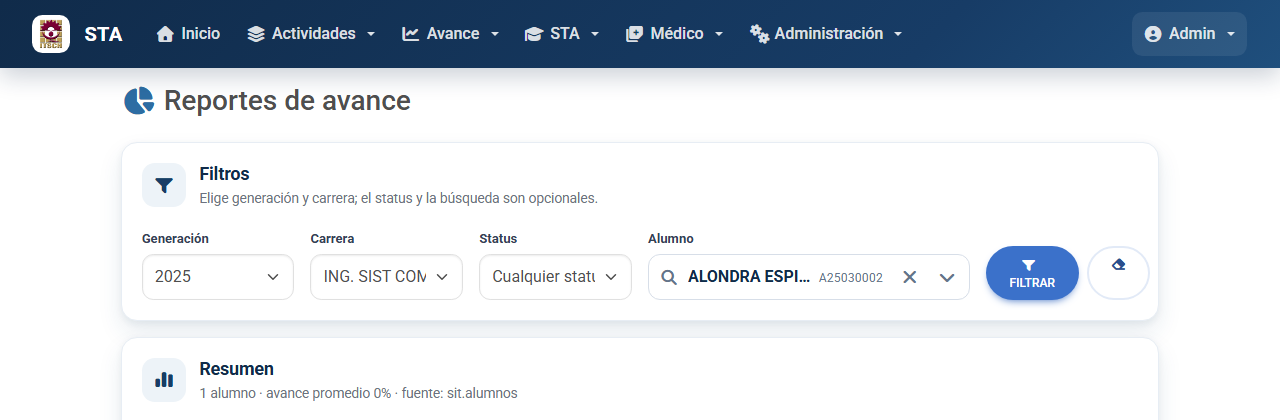
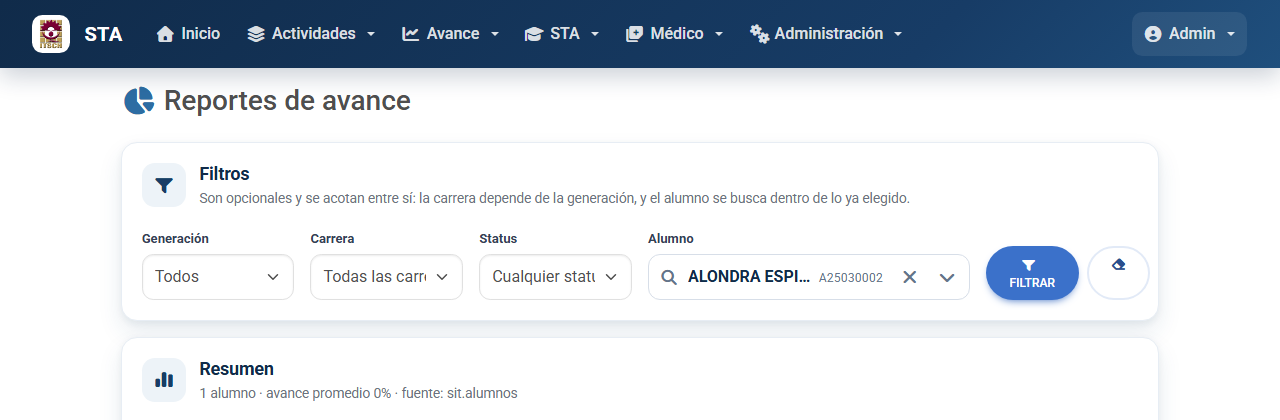
Filtros de reportes en cascada y opcionales
- Quita el required de generación y carrera: se puede filtrar solo por alumno.
- Cascada al enviar: las carreras se acotan por la generación elegida y los
  años por la carrera elegida.
- Sincroniza en vivo el buscador con generación y carrera (parámetro anio).
- Sin filtros no se consulta la base; el status queda como modificador.
- Mantiene el alcance por carreras para usuarios sin privilegios.
- Actualiza la bitácora y regenera las capturas con datos reales.

Changed region(s): [[0.1562, 0.4643, 0.7188, 0.4952], [0.25, 0.619, 0.3438, 0.681], [0.125, 0.619, 0.1562, 0.681]]

diff --git a/resources/views/admin/verifica_evidencia/reportes.blade.php b/resources/views/admin/verifica_evidencia/reportes.blade.php
@@ -69,7 +69,7 @@
 @php
     $paginado = $suma_creditos instanceof \Illuminate\Pagination\LengthAwarePaginator ? $suma_creditos : null;
     $sinDatos = $paginado === null || $paginado->total() === 0;
-    $filtrado = request()->has('generacion') && request()->filled('carrera');
+    $filtrado = (bool) ($filtrosAplicados ?? false);
     $puntosTotales = max(1, (int) $creditos * 100);
     $detallePorAlumno = $reportes_data ? collect($reportes_data)->groupBy('no_control') : collect();
     $r = $resumen ?? ['total' => 0, 'liberados' => 0, 'enProceso' => 0, 'sinAvance' => 0, 'bajas' => 0, 'promedio' => 0];
@@ -86,26 +86,24 @@
         <span class="report-icon"><i class="fa-solid fa-filter" aria-hidden="true"></i></span>
         <div>
             <h2>Filtros</h2>
-            <p>Elige generación y carrera; el status y la búsqueda son opcionales.</p>
+            <p>Son opcionales y se acotan entre sí: la carrera depende de la generación, y el alumno se busca dentro de lo ya elegido.</p>
         </div>
     </div>
     <form action="{{ route('verifica_evidencia.reportes') }}" method="get" class="report-filters">
         <div class="row g-3 align-items-end">
             <div class="col-sm-6 col-xl-2">
                 <label class="form-label" for="generacion">Generación</label>
-                <select name="generacion" id="generacion" class="form-select" required>
-                    <option value="1" @if((int) $generacion === 1) selected @endif>Todos</option>
-                    @for($anio = 2013; $anio <= now()->year; $anio++)
-                        <option value="{{ $anio }}" @if((int) $generacion === $anio) selected @endif>{{ $anio }}</option>
-                    @endfor
+                <select name="generacion" id="generacion" class="form-select">
+                    <option value="1" @if((int) $generacion === 1 || (int) $generacion === 0) selected @endif>Todos</option>
+                    @foreach($anios as $anioDisponible)
+                        <option value="{{ $anioDisponible }}" @if((int) $generacion === (int) $anioDisponible) selected @endif>{{ $anioDisponible }}</option>
+                    @endforeach
                 </select>
             </div>
             <div class="col-sm-6 col-xl-2">
                 <label class="form-label" for="carrera">Carrera</label>
-                <select class="form-select" required name="carrera" id="carrera">
-                    @if (Auth::User()->hasAnyPermission(['VIP','VIP_REPORTES','VIP_SOLO_LECTURA']))
-                        <option value="">Seleccione una carrera</option>
-                    @endif
+                <select class="form-select" name="carrera" id="carrera">
+                    <option value="">Todas las carreras</option>
                     @foreach($carreras as $carrera)
                         <option value="{{ $carrera->id }}" title="{{ $carrera->nombre }}" @selected($carrera_seleccionada == $carrera->id)>{{ $carrera->nombre_corto ?: $carrera->nombre }}</option>
                     @endforeach
@@ -132,7 +130,7 @@
                         'field' => 'busqueda',
                         'endpoint' => route('verifica_evidencia.alumnos_busqueda'),
                         'query_param' => 'nombre',
-                        'params' => ['peticion' => '0', 'carrera' => (string) ($carrera_seleccionada ?? '')],
+                        'params' => ['peticion' => '0', 'carrera' => (string) ($carrera_seleccionada ?? ''), 'anio' => (int) $generacion > 1 ? (string) (int) $generacion : ''],
                         'keys' => ['value' => 'no_control', 'label' => 'nombre', 'meta' => ''],
                         'initial' => $alumnoFiltro ?? null,
                     ],
@@ -151,10 +149,17 @@
 <script>
     (function () {
         const carrera = document.getElementById('carrera');
+        const generacion = document.getElementById('generacion');
         const combo = document.getElementById('alumnoFiltro_combo');
-        if (!carrera || !combo || typeof combo.cbxSetParams !== 'function') { return; }
-        const sync = function () { combo.cbxSetParams({ carrera: carrera.value || '' }); };
+        if (!carrera || !generacion || !combo || typeof combo.cbxSetParams !== 'function') { return; }
+
+        const sync = function () {
+            const anio = generacion.value && generacion.value !== '1' ? generacion.value : '';
+            combo.cbxSetParams({ carrera: carrera.value || '', anio: anio });
+        };
+
         carrera.addEventListener('change', sync);
+        generacion.addEventListener('change', sync);
         sync();
     })();
 </script>
@@ -165,10 +170,10 @@
             <i class="fa-solid {{ $filtrado ? 'fa-circle-question' : 'fa-chart-simple' }}" aria-hidden="true"></i>
             @if($filtrado)
                 <h2>Sin resultados</h2>
-                <p>Ningún alumno coincide con los criterios elegidos en generación, carrera, status o búsqueda. Ajusta los filtros e inténtalo de nuevo.</p>
+                <p>Ningún alumno coincide con la combinación elegida. Recuerda que la carrera se acota por la generación y la búsqueda de alumno por ambos filtros; ajusta la selección e inténtalo de nuevo.</p>
             @else
-                <h2>Selecciona los filtros para generar el reporte</h2>
-                <p>El avance se calcula por crédito: {{ $creditos }} créditos registrados, {{ $puntosTotales }} puntos posibles por alumno.</p>
+                <h2>Elige al menos un filtro</h2>
+                <p>Puedes filtrar por generación, por carrera o buscar directamente un alumno; no es necesario llenar todos. El avance se calcula por crédito: {{ $creditos }} créditos registrados, {{ $puntosTotales }} puntos posibles por alumno.</p>
             @endif
         </div>
     </article>

diff --git a/app/Http/Controllers/VerificaEvidenciaController.php b/app/Http/Controllers/VerificaEvidenciaController.php
@@ -308,12 +308,14 @@ class VerificaEvidenciaController extends Controller
         $puntosTotales = max(1, $creditos * 100);
 
         $busqueda = $request->get('busqueda');
+        $textoBusqueda = is_string($busqueda) ? trim($busqueda) : '';
         $carreraSit = $request->get('carrera');
-        $generacion = $request->get('generacion');
+        $generacion = (int) $request->get('generacion', 0);
+        $anio = $generacion > 1 ? $generacion : null;
         $estadoFiltro = $request->get('status', 'todos');
 
         $puedeVerTodas = Auth::User()->hasAnyPermission(['VIP', 'VIP_REPORTES', 'VIP_SOLO_LECTURA']);
-        $carreras = $puedeVerTodas
+        $carrerasPermitidas = $puedeVerTodas
             ? $this->carrerasSitVisibles()
             : $this->carrerasSitVisibles(Area::CarrerasUsuario(Auth::User()->id)->pluck('id'));
 
@@ -322,11 +324,42 @@ class VerificaEvidenciaController extends Controller
         $resumen = null;
 
         $carreraValida = $carreraSit !== null && $carreraSit !== ''
-            && $carreras->contains(fn ($carrera) => (string) $carrera->id === (string) $carreraSit);
+            && $carrerasPermitidas->contains(fn ($carrera) => (string) $carrera->id === (string) $carreraSit);
 
-        if ($request->has('generacion') && $carreraValida) {
+        // Filtros en cascada: la carrera se acota por la generación elegida
+        $carreras = $carrerasPermitidas;
+        if ($anio !== null) {
+            $carrerasConAlumnos = SitAlumno::where('anio_ingreso', $anio)->pluck('carrera_id')->unique();
+            $carreras = $carrerasPermitidas
+                ->filter(fn ($carrera) => $carrerasConAlumnos->contains($carrera->id) || (string) $carrera->id === (string) $carreraSit)
+                ->values();
+        }
+
+        // Y los años disponibles se acotan por la carrera elegida
+        $consultaAnios = SitAlumno::query()->select('anio_ingreso')->distinct();
+        if ($carreraValida) {
+            $consultaAnios->where('carrera_id', $carreraSit);
+        }
+        $anios = $consultaAnios->orderByDesc('anio_ingreso')
+            ->pluck('anio_ingreso')
+            ->map(fn ($valor) => (int) $valor)
+            ->filter()
+            ->values();
+
+        if ($anio !== null && ! $anios->contains($anio)) {
+            $anios = $anios->push($anio)->sortDesc()->values();
+        }
+
+        $filtrosAplicados = $carreraValida || $anio !== null || $textoBusqueda !== '';
+
+        if ($filtrosAplicados) {
             // Los alumnos salen exclusivamente de sit.alumnos
-            $alumnos = $this->alumnosReporte($carreraSit, $generacion, $busqueda);
+            $alumnos = $this->alumnosReporte(
+                $carreraValida ? $carreraSit : null,
+                $anio,
+                $textoBusqueda,
+                $puedeVerTodas ? null : $carrerasPermitidas->pluck('id')
+            );
 
             $avance = $alumnos->isEmpty() ? collect() : DB::table('avance')
                 ->whereIn('no_control', $alumnos->pluck('no_control')->all())
@@ -427,22 +460,32 @@ class VerificaEvidenciaController extends Controller
         ->with('suma_creditos', $suma_creditos)
         ->with('resumen', $resumen)
         ->with('carreras', $carreras)
+        ->with('anios', $anios)
+        ->with('filtrosAplicados', $filtrosAplicados)
         ->with('carrera_seleccionada', $carreraSit)
         ->with('busqueda', $busqueda)
         ->with('status', $request->get('status'))
-        ->with('generacion', $request->get('generacion'))
+        ->with('generacion', $generacion)
         ->with('alumnoFiltro', $alumnoFiltro);
     }
 
     /** Alumnos del reporte: fuente única sit.alumnos (nombre desde sit.users, carrera desde sit.cat_carreras). */
-    private function alumnosReporte($carreraSit, $generacion, $busqueda)
+    private function alumnosReporte($carreraSit, $anio, $busqueda, $carrerasPermitidas = null)
     {
-        $consulta = SitAlumno::query()
-            ->with(['user', 'carrera'])
-            ->where('carrera_id', $carreraSit);
+        $consulta = SitAlumno::query()->with(['user', 'carrera']);
 
-        if ($generacion !== null && (int) $generacion > 1) {
-            $consulta->where('anio_ingreso', (int) $generacion);
+        if ($carreraSit !== null && $carreraSit !== '') {
+            $consulta->where('carrera_id', $carreraSit);
+        }
+
+        if ($anio !== null && (int) $anio > 1) {
+            $consulta->where('anio_ingreso', (int) $anio);
+        }
+
+        // Los usuarios sin privilegios nunca pueden salir de sus carreras, aunque no elijan una
+        if ($carrerasPermitidas !== null) {
+            $ids = collect($carrerasPermitidas)->filter()->values();
+            $consulta->whereIn('carrera_id', $ids->isEmpty() ? [-1] : $ids->all());
         }
 
         $texto = is_string($busqueda) ? trim($busqueda) : '';
@@ -527,6 +570,11 @@ class VerificaEvidenciaController extends Controller
         } elseif ($request->filled('carrera')) {
             // El filtro llega con el id del catálogo SIT
             $query->where('carrera_id', $request->get('carrera'));
+        }
+
+        // Cascada desde el filtro de generación
+        if ($request->filled('anio') && (int) $request->get('anio') > 1) {
+            $query->where('anio_ingreso', (int) $request->get('anio'));
         }
 
         $lista = $query->orderBy('no_control')

diff --git a/docs/BITACORA.md b/docs/BITACORA.md
@@ -4,7 +4,7 @@ Este archivo registra cronológicamente todos los cambios, decisiones y pendient
 
 ## Estado actual
 
-**Última entrada:** 2026-11-21 13:45 · **Entradas registradas:** 34 · **Último commit previo a esta sesión:** `cc5f3ed` (2026-11-21 12:55).
+**Última entrada:** 2026-11-21 14:15 · **Entradas registradas:** 35 · **Último commit previo a esta sesión:** `8760f6d` (2026-11-21 13:47).
 
 **Verificaciones de cierre (última: 2026-11-21 13:45):**
 
@@ -16,7 +16,7 @@ Este archivo registra cronológicamente todos los cambios, decisiones y pendient
 | `public/storage` (enlaces de evidencias) | ✅ Existe |
 | Árbol de trabajo Git | ⚠ Pendiente de commit al registrar esta entrada |
 | Buscador de alumnos (`template.partes.buscador_combobox`) | ✅ 43 + 17 pruebas de interacción, 12 + 38 + 12 de render, capturas en 3 anchos |
-| Reporte de avance sobre `sit.alumnos` | ✅ 21 pruebas con datos reales + 10 de render; 0.75 s en el peor caso |
+| Reporte de avance sobre `sit.alumnos` | ✅ 21 + 12 pruebas con datos reales, 10 + 10 de render, 8 de sincronización; 1.11 s en el peor caso |
 
 ### Riesgos abiertos
 
@@ -35,6 +35,7 @@ Este archivo registra cronológicamente todos los cambios, decisiones y pendient
 
 Estas entradas están marcadas como completadas pero su verificación en navegador sigue abierta:
 
+- 2026-11-21 14:15 — Filtros de reportes en cascada y sin campos obligatorios
 - 2026-11-21 13:38 — Filtro de carreras unificado con el catálogo del SIT
 - 2026-11-21 13:31 — Buscador de alumnos del SIT en reportes
 - 2026-11-21 13:26 — UX de reportes con cards
@@ -115,7 +116,7 @@ Notas de implementación:
 
 | Módulo | Etiqueta en entradas | Entradas | Rango |
 |---|---|---|---|
-| Créditos complementarios | `créditos` | 18 | 2026-11-21 11:49 – 13:38 |
+| Créditos complementarios | `créditos` | 20 | 2026-11-21 11:49 – 14:15 |
 | Trayectoria académica | `trayectoria` | 4 | 2026-11-20 18:59 – 19:09 |
 | Infraestructura | `infraestructura` | 11 | 2026-11-20 18:32 – 2026-11-21 13:18 |
 | Tutorías | — | 0 | Sin entradas registradas |
@@ -144,6 +145,46 @@ Las entradas históricas no citan hash de commit; esta tabla permite cruzarlas p
 ## Bitácora cronológica
 
 <!-- Las entradas van aquí, más recientes arriba -->
+
+### [2026-11-21 14:15] — Filtros de reportes en cascada y sin campos obligatorios
+
+- **Estatus:** ✅ completado
+- **Agente:** lead
+- **Módulo:** créditos
+- **Prompt/Tarea original:** Al dejar los filtros vacíos y elegir solo un alumno, el formulario obligaba a seleccionar una carrera. Los filtros deben respetar una jerarquía y ninguno debe ser obligatorio si se elige el último.
+
+**Archivos modificados:**
+- `app/Http/Controllers/VerificaEvidenciaController.php` (`reportes()` sin exigir carrera; listas dependientes de generación y carrera; `alumnosBusqueda()` acepta `anio`)
+- `resources/views/admin/verifica_evidencia/reportes.blade.php` (selects sin `required`, opción «Todas las carreras», años desde SIT y sincronización de ambos filtros)
+
+**Archivos eliminados:**
+- Ninguno.
+
+**Consultas SQL nuevas o modificadas:**
+- `sit.alumnos` ahora se consulta con cualquier combinación de `carrera_id`, `anio_ingreso` y búsqueda; ninguna es obligatoria.
+- Los años y carreras disponibles se obtienen con `distinct` sobre `sit.alumnos`, acotados por el otro filtro.
+
+**Decisiones tomadas:**
+- Generación y carrera dejan de ser obligatorias; se puede filtrar solo por alumno.
+- Cascada al enviar el formulario: las carreras se acotan a las que tienen alumnos en la generación elegida y los años a los que existen en la carrera elegida.
+- La cascada hacia el buscador es en vivo: al cambiar generación o carrera se actualizan los parámetros del endpoint (`anio` y `carrera`), sin recargar.
+- Sin ningún filtro no se consulta la base; se muestra un estado vacío que invita a elegir al menos uno.
+- El status sigue siendo un modificador: por sí solo no dispara la consulta, porque obligaría a recorrer los once mil alumnos del SIT.
+- Los usuarios sin privilegios quedan acotados a sus carreras incluso cuando no eligen carrera, para que un `no_control` ajeno no exponga datos.
+
+**Pendientes / Deuda técnica:**
+- Las listas de generación y carrera se recalculan al pulsar «Filtrar»; no se refrescan en vivo como el buscador.
+- El status no acota las opciones del buscador porque se deriva del avance en créditos, no de SIT.
+
+**Tests ejecutados:**
+- ✅ 12 comprobaciones con datos reales: solo alumno, solo generación, solo carrera, generación+carrera, cascada de carreras y de años, alumno dentro/fuera de la combinación, sin filtros y carrera inexistente.
+- ✅ 10 comprobaciones de render (sin `required`, opción «Todas las carreras», años del SIT, parámetros y script de sincronización).
+- ✅ 8 comprobaciones en jsdom de la sincronización en vivo al cambiar generación y carrera.
+- ✅ `php artisan test` (17 passed, 62 assertions).
+
+**Referencias:**
+- `docs/img/reportes-filtro-alumno.png` (solo alumno, sin generación ni carrera)
+- `docs/img/reportes-desktop.png` (solo generación 2025)
 
 ### [2026-11-21 13:45] — Reporte de avance con fuente única sit.alumnos
 
